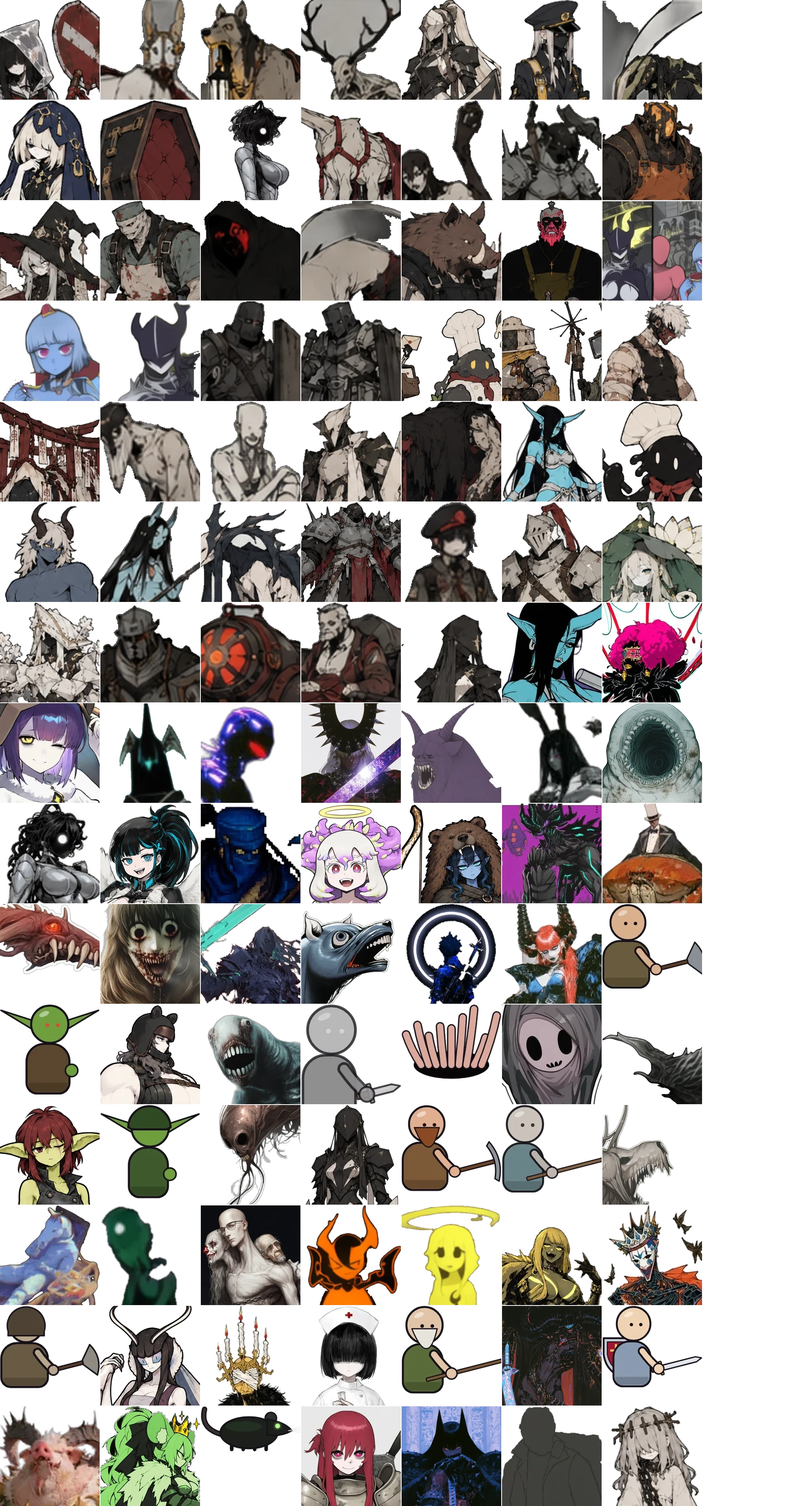
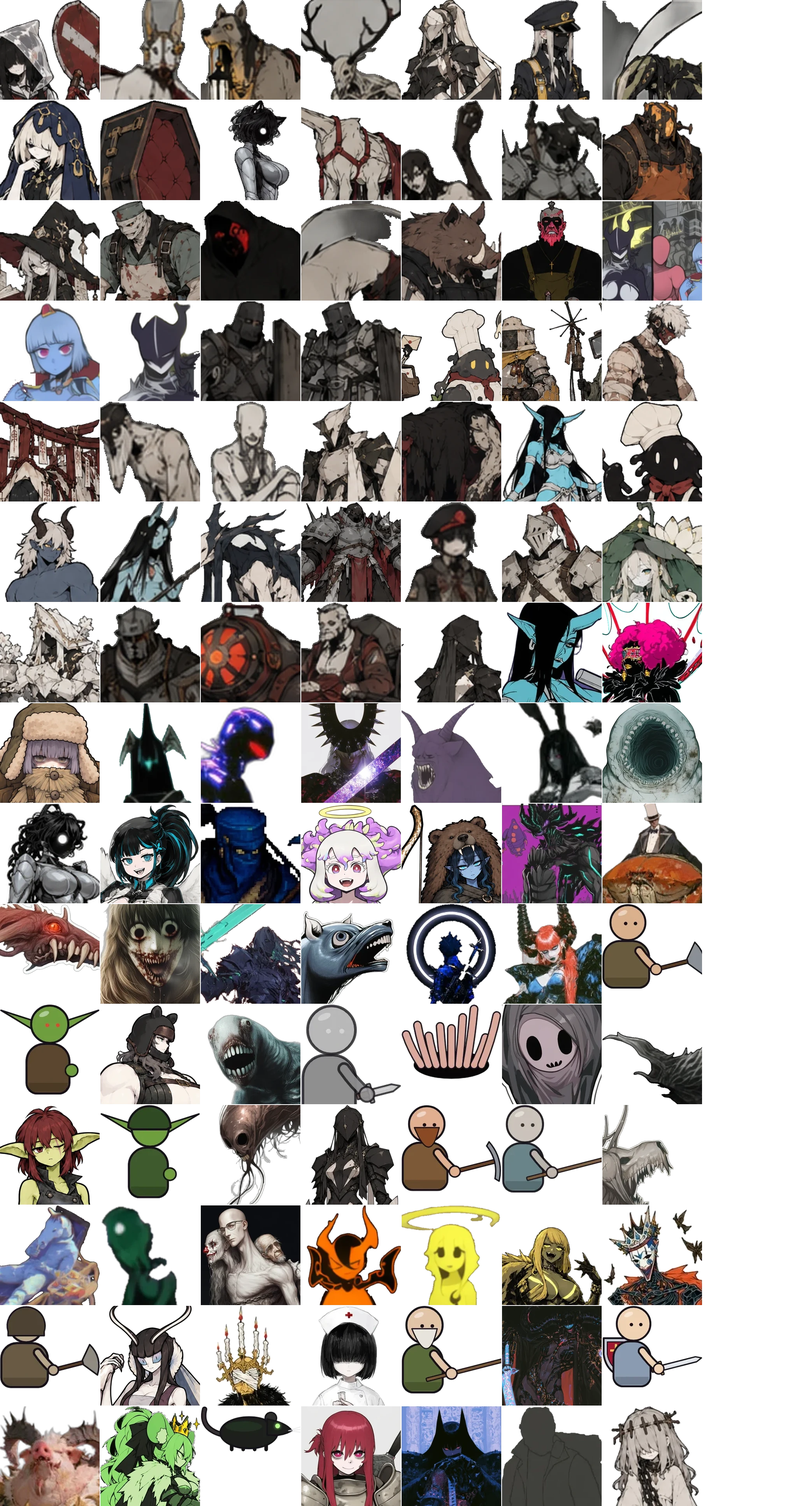
codex v1.70: 아이텐 기본 그림 · 초상화 새 그림으로 교체
Claude-Session: https://claude.ai/code/session_01J3nhobVtF4R9kQDUc9EDKF

Changed region(s): [[0.0, 0.4654, 0.125, 0.5584]]

diff --git a/codex/catalog.js b/codex/catalog.js
@@ -1,4 +1,4 @@
-/* catalog.js v1.66 — 도감 항목. id는 바뀌지 않음 (체크 · 메모 · 등장 표시가 id에 붙음). on = 지금 3D에 들어가 있음 (기본 초록). v1.6: 노랑고양 원화 · 적뢰 컷씬 */
+/* catalog.js v1.67 — 도감 항목. id는 바뀌지 않음 (체크 · 메모 · 등장 표시가 id에 붙음). on = 지금 3D에 들어가 있음 (기본 초록). v1.6: 노랑고양 원화 · 적뢰 컷씬 */
 const CATALOG = [
 {
 "id": "R-A",
@@ -27481,7 +27481,7 @@ const CATALOG = [
 "sub": "아이텐 (상인) · NPC · 원화 + 연출",
 "name": "아이텐 기본 초상화",
 "src": "img/face/auto_aiten.webp",
-"note": "기본 그림에서 정사각형으로 자름",
+"note": "새 기본 그림 (2026-10-04)에서 털모자까지 정사각형으로 자름",
 "rank": "",
 "on": false,
 "g": "aiten"
@@ -27492,7 +27492,7 @@ const CATALOG = [
 "sub": "아이텐 (상인) · NPC · 원화 + 연출",
 "name": "아이텐 (상인)",
 "src": "img/char/aiten.webp",
-"note": "마차를 끌고 여기저기 다니는 상인. 청갑이 호위. 기본 그림 하나만 씀 (원화 + 연출). 흰 바탕은 지움",
+"note": "마차를 끌고 여기저기 다니는 상인. 청갑이 호위. 기본 그림 하나만 씀 (원화 + 연출). 새 그림으로 교체 (2026-10-04, 귀마개 털모자 · 짚 도롱이 · 큰 배낭). 흰 바탕은 지움",
 "rank": "",
 "on": false,
 "g": "aiten"

diff --git a/codex/index.html b/codex/index.html
@@ -1,6 +1,6 @@
 <meta name="viewport" content="width=device-width, initial-scale=1, viewport-fit=cover">
 <title>굴의 도감</title>
-<!-- codex v1.69 — 굴의 프롤로그 그림 도감 (체크 · 메모 · 백업) -->
+<!-- codex v1.70 — 굴의 프롤로그 그림 도감 (체크 · 메모 · 백업) -->
 <link rel="preconnect" href="https://fonts.googleapis.com">
 <link rel="stylesheet" href="https://fonts.googleapis.com/css2?family=Nanum+Myeongjo:wght@700;800&family=IBM+Plex+Sans+KR:wght@400;500;600&family=IBM+Plex+Mono:wght@500&display=swap">
 <style>

diff --git a/codex/README.md b/codex/README.md
@@ -1,6 +1,6 @@
 # 굴의 도감
 
-현재 버전: v1.69
+현재 버전: v1.70
 
 굴의 프롤로그에 들어갈, 지금까지 받은 그림을 분류별로 모아 둔 페이지. 게임에서 쓰지는 않음 (정리용).
 
@@ -15,6 +15,9 @@
 체크와 메모는 도감 페이지의 저장소 (db, `marks` 모음)에 들어가 Claude가 바로 읽을 수 있음. 백업 저장은 같은 내용을 .json 파일로 내려받음.
 
 ## 변경 기록
+
+- v1.70 (2026-10-04)
+  - 8 인물 → NPC → 아이텐 (상인): 기본 그림을 새 그림으로 교체 (귀마개 털모자 · 짚 도롱이 · 큰 배낭 · 털장갑, 바탕 지움). 기본 초상화도 새 그림에서 털모자까지 정사각형으로 다시 자름. 옛 그림은 덮어써서 지움. 묶음 그림 (pack) 다시 만듦
 
 - v1.69 (2026-10-04)
   - 초상화 · 목차 · 떠 있는 버튼으로 이동할 때 도감이 직접 스크롤을 굴림. 앱 안에서도 그 묶음까지 쭉 내려가는 게 보임 (거리에 따라 0.4 ~ 1.1초, 천천히 출발 · 천천히 멈춤). 도착 뒤 위쪽 그림이 늦게 떠 밀려도 1.5초 동안 다시 맞춤. 내려가는 중 화면을 만지면 바로 멈춤. 굴리는 동안 위 막대는 접히지 않음
